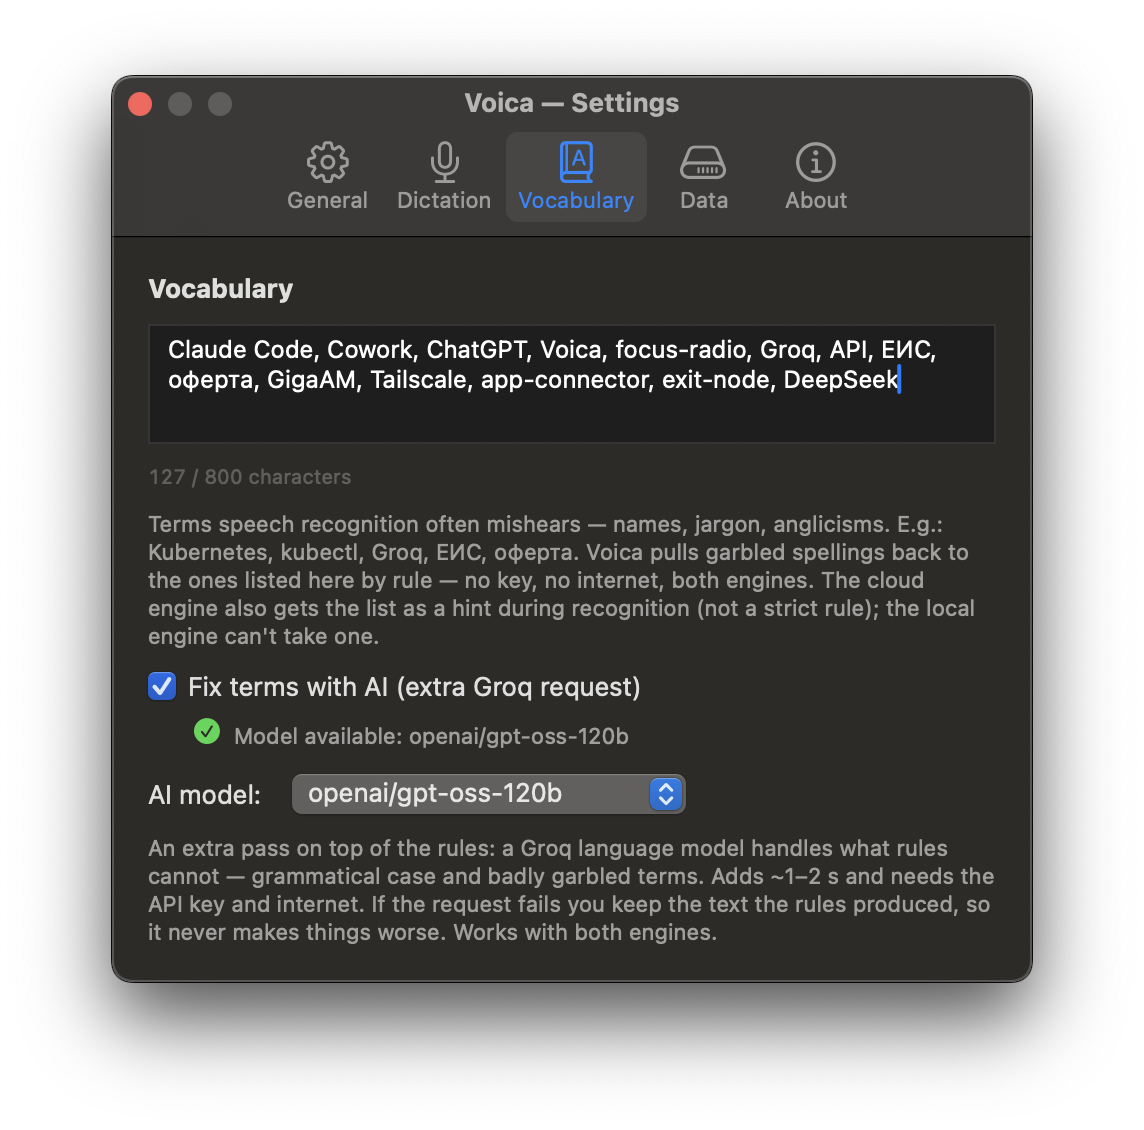
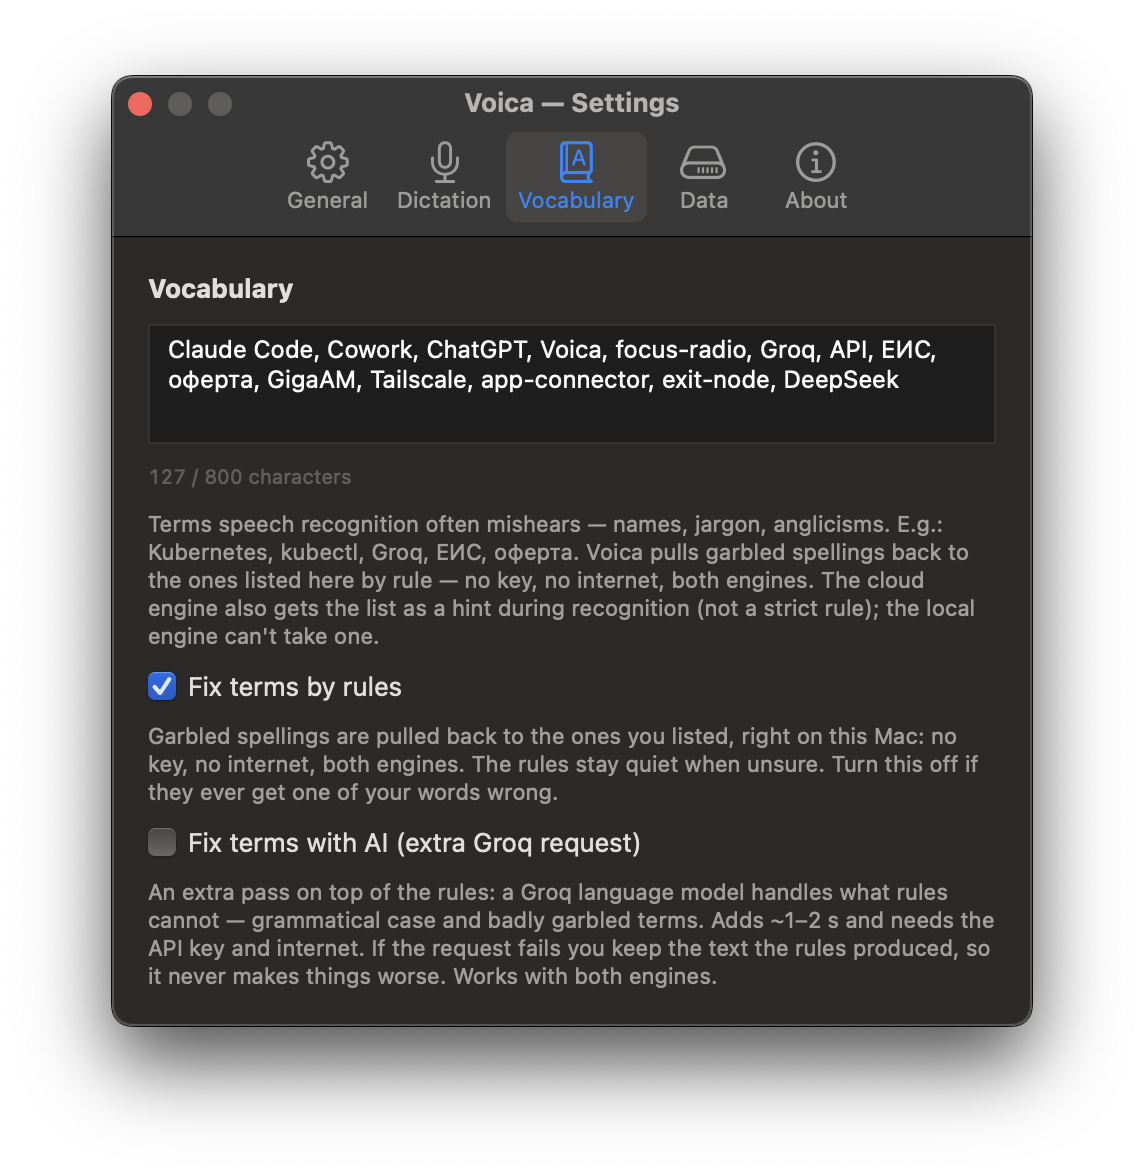
Первый запуск без ключа перестал быть тупиком
Если ключа нет, приложение открывает настройки с курсором в поле ключа — и человек читает это
как «без ключа никак». А локальный движок не требует ни ключа, ни интернета: выход есть, но
внимание уведено не туда. Для аудитории, у которой Groq может быть попросту недоступен, это
тупик на первом же экране.

Под кнопками сохранения ключа появилась строка про локальный движок. Видна только когда
выбрано облако И ключа нет: есть ключ — облако работает, выбран локальный — ключ не нужен.
Пересчитывается при открытии настроек, смене движка и сразу после сохранения ключа.

Стоит именно под полем ключа, а не у переключателя движка: на первом запуске курсор ставится
в поле ключа, туда и смотрит человек, там же у него и возникает ощущение тупика. Цвет обычный,
не блёклый — рядом три серые подсказки, четвёртая такая же потерялась бы.

Кнопки-действия у строки намеренно нет: переключатель движка виден выше, а кнопка провоцировала
бы скачать 400 МБ раньше, чем человек поймёт, зачем они.

Заодно починена ширина окна настроек, скакавшая при переключении вкладок. Причин было две.
Первая: `preferredContentSize` брался целиком из `fittingSize`, а там и ширина. Вторая, и
настоящая: подсказка рядом с точкой «ⓘ» делалась переносящейся по словам, а такой нужна
заданная ширина — 424 пункта, то есть всё содержимое вкладки. Точка вставала после этой
коробки, у правого края окна, и ряд перестал помещаться, отчего окно и расширялось. Теперь для
[…]

diff --git a/Sources/SettingsWindow.swift b/Sources/SettingsWindow.swift
@@ -21,6 +21,7 @@ final class SettingsWindowController: NSWindowController, NSTextViewDelegate, NS
     private var plainKeyField: NSTextField!
     private var showKeyToggle: NSButton!
     private var keyStatusLabel: NSTextField!
+    private var noKeyHint: NSTextField!
     private var statusIcon: NSImageView!
     private var statusSpinner: NSProgressIndicator!
     private var checkUpdatesToggle: NSButton!
@@ -41,6 +42,7 @@ final class SettingsWindowController: NSWindowController, NSTextViewDelegate, NS
     private var doubleTapToggle: NSButton!
     private var fillersToggle: NSButton!
     private var quotesToggle: NSButton!
+    private var llmStatusRow: NSStackView!
     private var termRulesToggle: NSButton!
 
     // Vocabulary
@@ -104,11 +106,17 @@ final class SettingsWindowController: NSWindowController, NSTextViewDelegate, NS
         window?.contentViewController = tabs
     }
 
+    /// Ширина вкладки. Одна на все — окно должно менять высоту под содержимое, но НЕ ширину:
+    /// иначе оно скачет при переключении табов, а места по горизонтали и так хватает.
+    private static let tabWidth: CGFloat = 460
+
     private func addTab(_ label: String, symbol: String, view: NSView) {
         let vc = NSViewController()
         vc.view = view
         view.layoutSubtreeIfNeeded()
-        vc.preferredContentSize = view.fittingSize   // окно меняет высоту под вкладку
+        // Берём только высоту. `fittingSize` содержит и ширину, а она у вкладок расходится
+        // (самая широкая — Dictation), и окно прыгало по горизонтали при каждом переключении.
+        vc.preferredContentSize = NSSize(width: Self.tabWidth, height: view.fittingSize.height)
         let item = NSTabViewItem(viewController: vc)
         item.label = label
         item.image = NSImage(systemSymbolName: symbol, accessibilityDescription: label)
@@ -119,7 +127,7 @@ final class SettingsWindowController: NSWindowController, NSTextViewDelegate, NS
     private func tabContainer() -> (NSView, NSStackView) {
         let container = NSView()
         container.translatesAutoresizingMaskIntoConstraints = false
-        container.widthAnchor.constraint(equalToConstant: 460).isActive = true
+        container.widthAnchor.constraint(equalToConstant: Self.tabWidth).isActive = true
         let stack = NSStackView()
         stack.orientation = .vertical
         stack.alignment = .leading
@@ -210,6 +218,14 @@ final class SettingsWindowController: NSWindowController, NSTextViewDelegate, NS
         keyBtnRow.spacing = 6
         stack.addArrangedSubview(keyBtnRow)
 
+        // Выход из тупика первого запуска: ключа нет, поле открыто, и человек решает, что без
+        // ключа приложение бесполезно. Строка стоит там, куда смотрит глаз — под полем ключа,
+        // а не выше у переключателя движка. Цвет обычный, не блёклый: среди трёх серых
+        // подсказок на этой вкладке она бы потерялась, и весь смысл пропал бы.
+        noKeyHint = makeHint(L("settings.key.nokey"))
+        noKeyHint.textColor = .labelColor
+        stack.addArrangedSubview(noKeyHint)
+
         let hint = makeHint(L("settings.key.hint"))
         stack.addArrangedSubview(hint)
 
@@ -292,7 +308,7 @@ final class SettingsWindowController: NSWindowController, NSTextViewDelegate, NS
         // Подсказка ушла в точку «ⓘ»: вкладка и так самая высокая, а с двумя абзацами текста
         // нижние элементы переставали помещаться в окно.
         stack.addArrangedSubview(NSStackView(views: [
-            makeHint(L("settings.stt.short")), InfoDot(L("settings.stt.hint")),
+            makeShortHint(L("settings.stt.short")), InfoDot(L("settings.stt.hint")),
         ]))
 
         stack.addArrangedSubview(header(L("settings.cleanup.header")))
@@ -342,9 +358,10 @@ final class SettingsWindowController: NSWindowController, NSTextViewDelegate, NS
 
         termRulesToggle = NSButton(checkboxWithTitle: L("settings.vocab.rules"),
                                    target: self, action: #selector(termRulesChanged))
-        stack.addArrangedSubview(NSStackView(views: [
-            termRulesToggle, InfoDot(L("settings.vocab.rules.hint")),
-        ]))
+        stack.addArrangedSubview(termRulesToggle)
+        // Здесь подсказка в потоке, а не в точке «ⓘ»: на этой вкладке так оформлены все
+        // остальные, и высоты хватает — в отличие от Dictation, где она и переполнялась.
+        stack.addArrangedSubview(makeHint(L("settings.vocab.rules.hint")))
 
         llmToggle = NSButton(checkboxWithTitle: L("settings.vocab.llm"),
                              target: self, action: #selector(llmChanged))
@@ -361,10 +378,14 @@ final class SettingsWindowController: NSWindowController, NSTextViewDelegate, NS
         llmStatusLabel.cell?.isScrollable = false
         llmStatusLabel.preferredMaxLayoutWidth = 400
         llmStatusLabel.widthAnchor.constraint(lessThanOrEqualToConstant: 400).isActive = true
-        let llmStatusRow = NSStackView(views: [llmSpinner, llmStatusIcon, llmStatusLabel])
-        llmStatusRow.spacing = 6
-        llmStatusRow.alignment = .top
-        stack.addArrangedSubview(llmStatusRow)
+        let statusRow = NSStackView(views: [llmSpinner, llmStatusIcon, llmStatusLabel])
+        statusRow.spacing = 6
+        statusRow.alignment = .top
+        // Пустая строка статуса всё равно занимала высоту, и при выключенном ИИ-проходе внизу
+        // вкладки зияла дыра. Прячем её вместе с выбором модели.
+        statusRow.isHidden = true
+        llmStatusRow = statusRow
+        stack.addArrangedSubview(statusRow)
 
         // Выбор chat-модели: «Рекомендуемая (автоматически)» + живой список (power-user).
         chatModelPopup = NSPopUpButton()
@@ -532,13 +553,28 @@ final class SettingsWindowController: NSWindowController, NSTextViewDelegate, NS
         return row
     }
 
-    private func makeHint(_ text: String) -> NSTextField {
+    /// Короткая подпись для ряда с точкой «ⓘ»: ширина по содержимому, как у чекбокса.
+    ///
+    /// `makeHint` для этого не годится: он делает переносящуюся по словам подпись, а такой
+    /// нужна ЗАДАННАЯ ширина — иначе непонятно, где переносить. Из-за этого точка вставала
+    /// после коробки в 424 пункта, то есть у правого края окна, а не после текста.
+    private func makeShortHint(_ text: String) -> NSTextField {
+        let hint = NSTextField(labelWithString: text)
+        hint.font = .systemFont(ofSize: 11)
+        hint.textColor = .secondaryLabelColor
+        return hint
+    }
+
+    private func makeHint(_ text: String, width: CGFloat = 424) -> NSTextField {
         // Подстрочные пояснения: 11pt + secondaryLabel — читаемо, как в системных
         // настройках и Tailscale (10pt/tertiary были слишком мелкими и блёклыми).
         let hint = NSTextField(wrappingLabelWithString: text)
         hint.font = .systemFont(ofSize: 11)
         hint.textColor = .secondaryLabelColor
-        hint.widthAnchor.constraint(equalToConstant: 424).isActive = true
+        // Ширина задаётся явно, иначе перенос по словам не работает. Для подсказки, стоящей
+        // рядом с точкой «ⓘ», её надо уменьшить: иначе ряд не влезает в 424 пункта содержимого,
+        // точка уезжает за край, а окно расширяется под неё — вкладки становятся разной ширины.
+        hint.widthAnchor.constraint(equalToConstant: width).isActive = true
         return hint
     }
 
@@ -645,6 +681,12 @@ final class SettingsWindowController: NSWindowController, NSTextViewDelegate, NS
         var frame = window.frame
         frame.size.height += delta
         frame.origin.y -= delta
+        // Ширину задаём ЖЁСТКО, а не «не трогаем»: одного `preferredContentSize` мало —
+        // NSTabViewController всё равно подгоняет окно под фактическую ширину вкладки, и она
+        // у Dictation больше. Окно от этого прыгало по горизонтали при каждом переключении,
+        // хотя места и так хватает. Меняться должна только высота.
+        frame.size.width = window.frameRect(forContentRect:
+            NSRect(x: 0, y: 0, width: Self.tabWidth, height: 0)).width
         window.setFrame(frame, display: true)
     }
 
@@ -743,6 +785,7 @@ final class SettingsWindowController: NSWindowController, NSTextViewDelegate, NS
         }
         if KeyStore.save(key) {
             setKeyStatus(L("settings.key.status.savedNow"), .success)
+            refreshNoKeyHint()          // ключ появился — подсказка про локальный движок не нужна
         } else {
             setKeyStatus(L("settings.key.status.saveFailed"), .error)
         }
@@ -904,8 +947,16 @@ final class SettingsWindowController: NSWindowController, NSTextViewDelegate, NS
         }
     }
 
+    /// Строка про локальный движок нужна ровно в одной ситуации: выбрано облако и ключа нет.
+    /// Есть ключ — облако работает; выбран локальный — ключ и не требуется.
+    private func refreshNoKeyHint() {
+        noKeyHint?.isHidden = !(Prefs.sttEngine == "cloud" && KeyStore.load() == nil)
+    }
+
     private func refreshEngineUI() {
+        refreshNoKeyHint()
         engineControl.selectedSegment = (Prefs.sttEngine == "local") ? 1 : 0
+        refreshNoKeyHint()
         let downloading = ModelDownloader.shared.isDownloading
         engineProgress.isHidden = !downloading
         engineCancelBtn.isHidden = !downloading
@@ -969,6 +1020,7 @@ final class SettingsWindowController: NSWindowController, NSTextViewDelegate, NS
 
     private func verifyChatModel() {
         chatModelRow.isHidden = false
+        llmStatusRow.isHidden = false
         llmStatusIcon.isHidden = true
         llmStatusLabel.stringValue = L("settings.vocab.llm.checking")
         llmSpinner.startAnimation(nil)
@@ -1019,6 +1071,7 @@ final class SettingsWindowController: NSWindowController, NSTextViewDelegate, NS
         llmStatusIcon.isHidden = true
         llmStatusLabel.stringValue = ""
         chatModelRow.isHidden = true
+        llmStatusRow.isHidden = true
     }
 
     // MARK: - Сброс настроек (ключ, история и аудио не трогаются)
